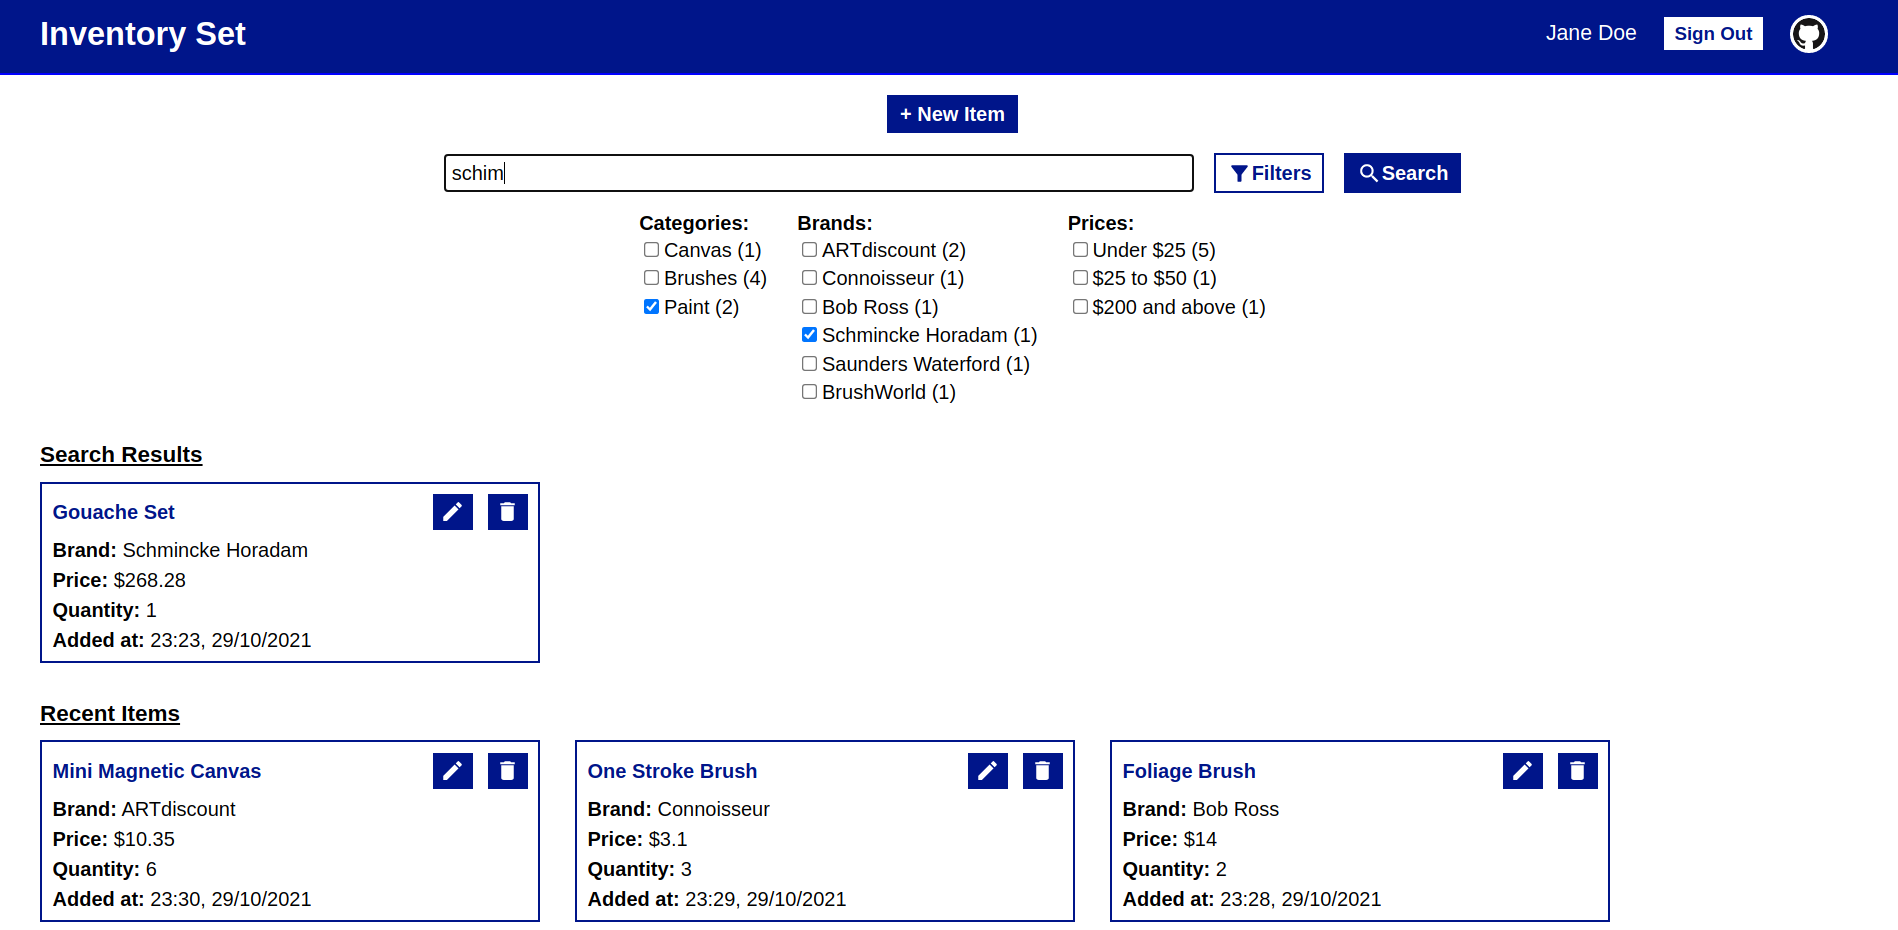
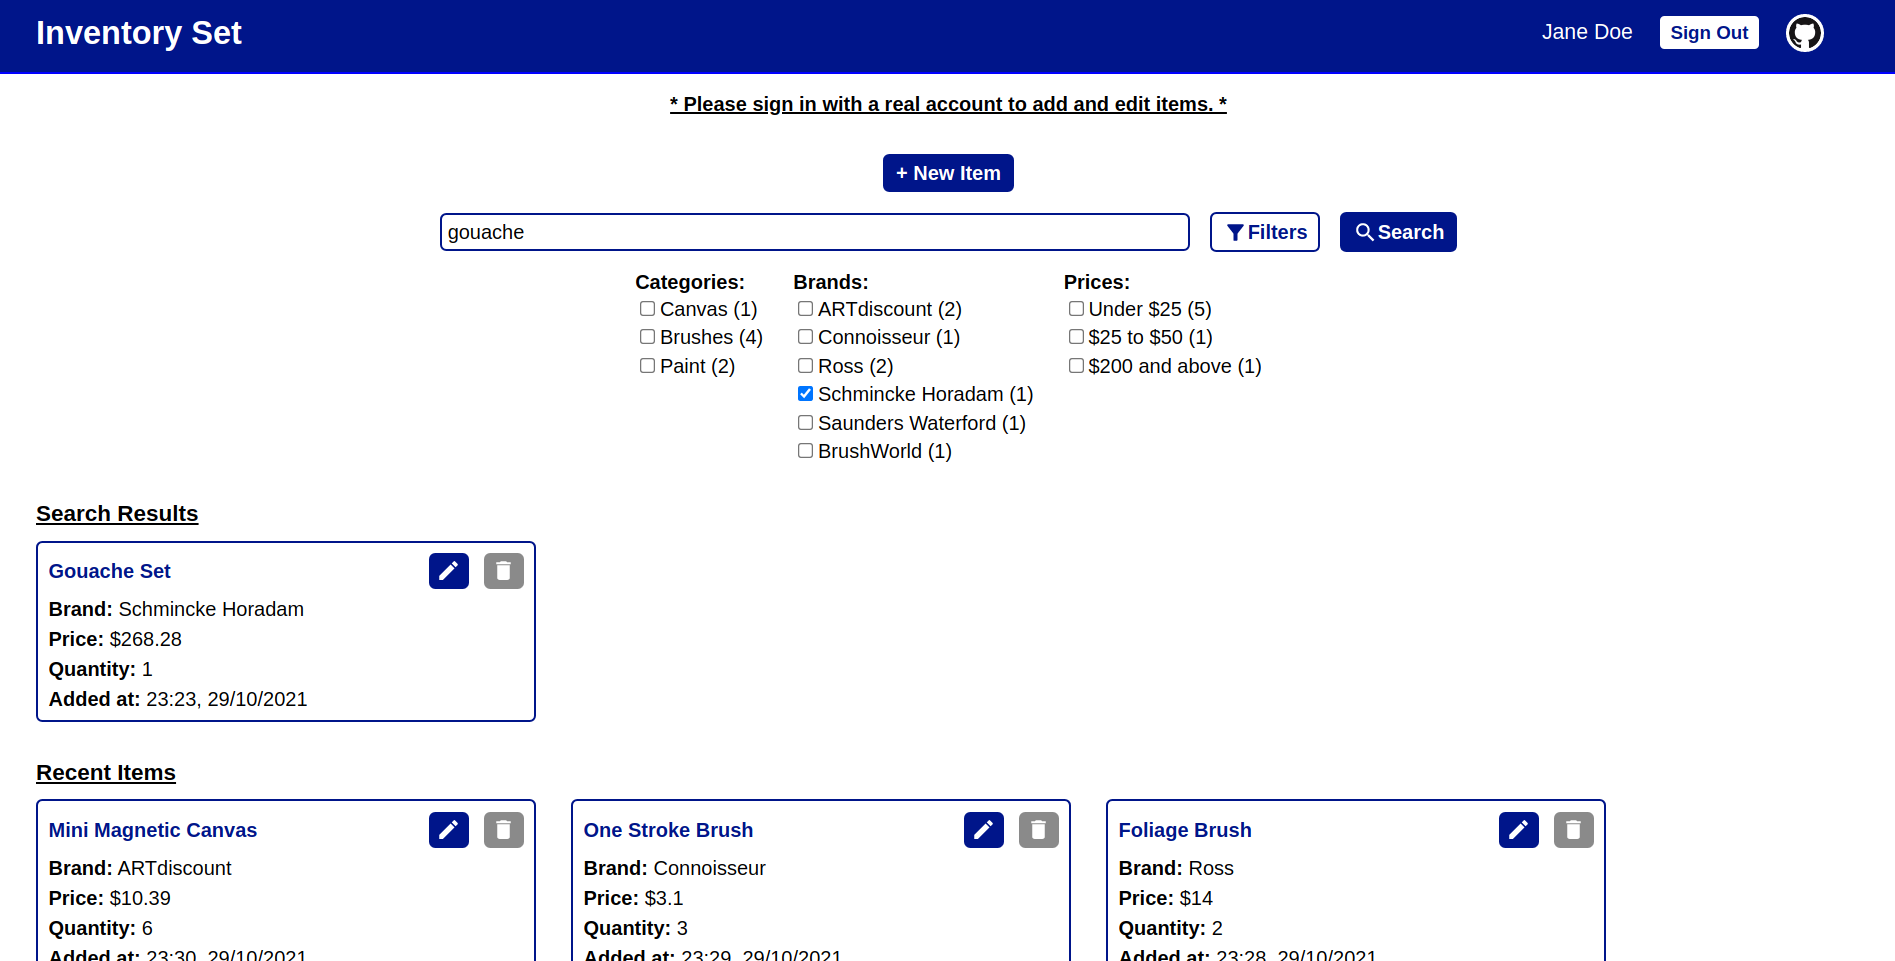
Modify item searching queries and form styles, update README.md

diff --git a/controllers/itemController.js b/controllers/itemController.js
@@ -53,9 +53,9 @@ module.exports.readItemFilters = async (req, res) => {
 
     // Find the number of items included in a specific filter
     const [categories, brands, prices] = await Promise.all([
-      setFilter(allItems, 'category'),
-      setFilter(allItems, 'brand'),
-      setFilter(allItems, 'prices'),
+      setFilter(req.params.userId, allItems, 'category'),
+      setFilter(req.params.userId, allItems, 'brand'),
+      setFilter(req.params.userId, allItems, 'prices'),
     ]);
 
     res.status(200).json({ categories, brands, prices });
@@ -104,7 +104,10 @@ module.exports.findItems = async (req, res) => {
 
       // Searchbar input is empty, only filtering search
     } else {
-      items = await Item.find({ $and: mongoFilter }).lean();
+      items = await Item.find({
+        userId: req.body.userId,
+        $and: mongoFilter,
+      }).lean();
     }
 
     res.status(200).json(items);

diff --git a/modules/itemModule.js b/modules/itemModule.js
@@ -1,7 +1,7 @@
 const Item = require('../models/Item');
 
 // Set categories, brands and prices filters
-const setFilter = async (items, type) => {
+const setFilter = async (userId, items, type) => {
   // Set prices filter
   if (type === 'prices') {
     return setPrices(items);
@@ -26,8 +26,8 @@ const setFilter = async (items, type) => {
   for (let i = 0; i < filterElements.length; i++) {
     const arr =
       type === 'category'
-        ? await Item.find({ category: filterElements[i] }).lean()
-        : await Item.find({ brand: filterElements[i] }).lean();
+        ? await Item.find({ userId, category: filterElements[i] }).lean()
+        : await Item.find({ userId, brand: filterElements[i] }).lean();
 
     // Set category or brand name and item count
     filterElements[i] = { name: filterElements[i], count: arr.length };

diff --git a/frontend/src/assets/styles/ItemDetails.css b/frontend/src/assets/styles/ItemDetails.css
@@ -54,7 +54,7 @@ select {
   flex-direction: column;
   justify-content: center;
   align-items: center;
-  padding: 1.5rem 0 1rem 0;
+  padding: 1.5rem 0 4rem 0;
   font-size: calc(12px + 0.5vw);
   background-color: white;
 }

diff --git a/frontend/src/assets/styles/SignUp.css b/frontend/src/assets/styles/SignUp.css
@@ -17,7 +17,7 @@
   display: flex;
   flex-direction: column;
   align-items: center;
-  padding: 1.5rem 0;
+  padding: 1.5rem 0 4rem 0;
   width: 95%;
   max-width: 300px;
   font-size: calc(12px + 0.5vw);

diff --git a/README.md b/README.md
@@ -2,25 +2,59 @@
 
 ![Preview](preview.png)
 
-- ### [See Live](https://inventoryset.onrender.com)
-
 ## Overview
 
-- Creating, editing and deleting items, customizable category fields for different types of products
-- Searching with keywords and filters
-- REST API back end with Node.js and Express.js, React front end using Hooks and Router
-- User authentication with JWT
-- Indexed MongoDB database integration
+Inventory Set is a full stack item management application. It was created using React, Node.js, Express.js and MongoDB. User authentication was implemented using JWT. This project is currently deployed and hosted on a cloud platform called Render as a demo site.
 
-## Usage
+- [**See Live**](https://inventoryset.onrender.com) (Note: Render can take up to **1 minute to "wake up"** web services)
+
+- **Features**
+  - Sign in, sign up (JWT)
+  - Create, edit, delete items
+  - Item and brand names, custom categories, price and quantity information
+  - Find items using letters/words and/or filters
+  - Browse recently added items
+
+## Installation
+
+Make sure you have Node.js version >= 14.7.3 installed. Either use your OS's package manager or follow the instructions [here](https://nodejs.org/en/). This project uses MongoDB as its database. If you don't have it installed or not sure how to make the connection follow [these instructions](https://docs.mongodb.com/manual/installation/#mongodb-community-edition). Then, manually download this repository or clone it by running the command below.
 
 ```
-$ npm install
-$ node app.js
+$ git clone https://github.com/feyzanaydemir/inventory-set.git
 ```
 
+- Change into the `/inventory-set` directory and install the server side requirements.
+
+  ```
+  $ cd inventory-set
+  $ npm install
+  ```
+
+  To start the Node.js server and access it at `http://localhost:8080`, run:
+
+  ```
+  $ node app.js
+  ```
+
+- Change into the `/frontend` directory and install the client side requirements.
+
+  ```
+  $ cd frontend
+  $ npm install
+  ```
+
+  To start the React development server and access it at `http://localhost:3000`, run:
+
+  ```
+  $ npm start
+  ```
+
+### Enviroment Variables
+
 ```
-$ cd frontend
-$ npm install
-$ npm start
+GUEST_PASSWORD=
+GUEST_EMAIL=
+SECRET=
+ORIGIN=
+DB_URI=
 ```
